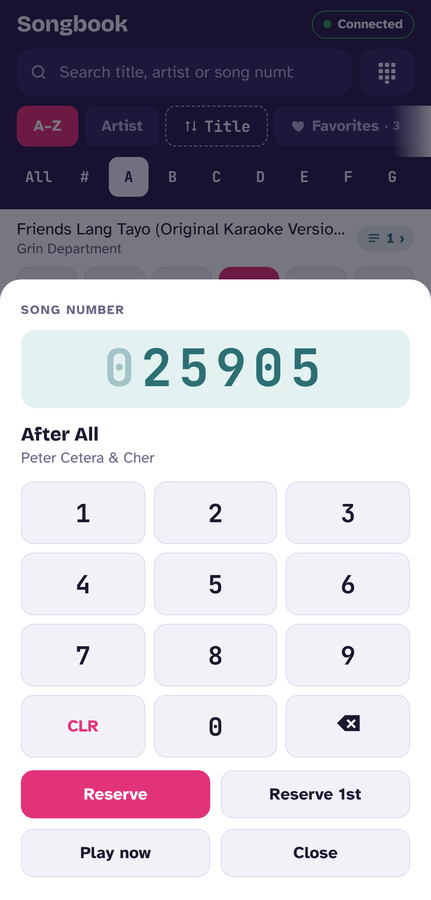
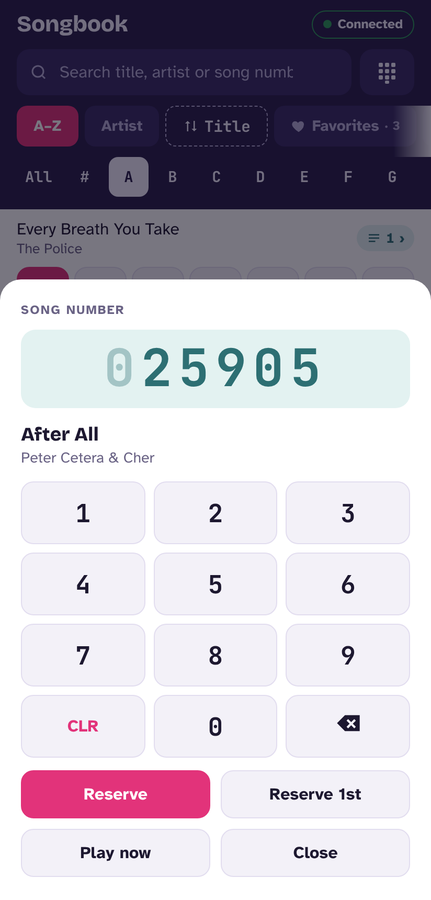
Add BGV button and reorder controls (v3.3)
- New BGV button to change SongHub's background video/photo:
  {"action":"bgv"} over Wi-Fi, F7 over the Bluetooth keypad
- Control row order is now Play/Pause, Next, BGV, Stop, Melody, Tempo, Keys
- README and screenshots updated

Claude-Session: https://claude.ai/code/session_018YhXNoDMN8dow8WWHKXSq2

Changed region(s): [[0.0302, 0.2489, 0.7842, 0.3111]]

diff --git a/web/template.html b/web/template.html
@@ -221,7 +221,7 @@ mark{background:var(--hl);color:inherit;border-radius:2px}
 .conn[data-s="connecting"] .dot,.conn[data-s="retry"] .dot{background:var(--warn)}
 @media (prefers-reduced-motion:no-preference){.conn[data-s="connecting"] .dot,.conn[data-s="retry"] .dot{animation:blink 1s infinite}@keyframes blink{50%{opacity:.25}}}
 .np{flex:none;display:flex;flex-direction:column;width:100%;box-sizing:border-box;border-bottom:1px solid var(--line);background:var(--surface);color:var(--fg)}
-.ctl{display:grid;grid-template-columns:repeat(6,minmax(0,1fr));gap:6px;padding-block:0 8px}
+.ctl{display:grid;grid-template-columns:repeat(7,minmax(0,1fr));gap:5px;padding-block:0 8px}
 .ctl button{min-width:0;display:flex;flex-direction:column;align-items:center;justify-content:center;gap:3px;padding:7px 2px;min-height:54px;border-radius:12px;border:1px solid var(--line);background:var(--bg);color:var(--fg);font:inherit;cursor:pointer}
 .ctl button span{font-size:calc(.7rem * var(--fs,1));font-weight:700;color:var(--muted);white-space:nowrap;overflow:hidden;text-overflow:ellipsis;max-width:100%}
 .ctl button .v{font-family:var(--f-num);font-size:calc(1rem * var(--fs,1));line-height:1.1;color:var(--num);white-space:nowrap;max-width:100%;overflow:hidden}
@@ -623,7 +623,7 @@ function kConnect(){
 function kDisconnect(){K.wanted=false;K.everOn=false;clearTimeout(K.timer);const w=K.ws;K.ws=null;try{w&&w.close()}catch(e){}K.queue=[];K.now=null;setK('off')}
 function sendOp(op,code){if(K.link==='bt'){if(op===2)return btKeys([...btClear(),...btDigits(code),'enter']);if(op===0)return btKeys(['playpause']);throw BT_ONLY}const b=new TextEncoder().encode(code);const a=new Uint8Array(b.length+1);a[0]=op;a.set(b,1);K.ws.send(a.buffer)}
 function sendInt(op,v){if(K.link==='bt'){if(op===4)return btKeys([v>0?'f4':'f3']);if(op===5)return btKeys([v>0?'f6':'f5']);throw BT_ONLY}K.ws.send(new Uint8Array([op,v&255]).buffer)}
-function sendAct(action,payload){if(K.link==='bt'){const m={next:'next',stop:'stop',melody:'f2'}[action];if(!m)throw BT_ONLY;return btKeys([m])}K.ws.send(JSON.stringify(payload==null?{action}:{action,payload:String(payload)}))}
+function sendAct(action,payload){if(K.link==='bt'){const m={next:'next',stop:'stop',melody:'f2',bgv:'f7'}[action];if(!m)throw BT_ONLY;return btKeys([m])}K.ws.send(JSON.stringify(payload==null?{action}:{action,payload:String(payload)}))}
 const K_LABEL={off:'Connect karaoke',connecting:'Connecting…',on:'Connected',retry:'Reconnecting…',error:'Not connected'};
 const K_LABEL_BT={off:'Connect karaoke',connecting:'Connecting…',on:'Connected (BT)',retry:'Connecting…',error:'Not connected'};
 function setK(s){K.state=s;const c=$('conn');c.dataset.s=s;$('conn-t').textContent=(K.link==='bt'?K_LABEL_BT:K_LABEL)[s];renderNP();if(sheetMode==='connect'){if(K.link==='bt')renderBt();else{renderConnectStatus();renderScan()}}}
@@ -640,7 +640,8 @@ const ICON={
   play:'<svg viewBox="0 0 24 24" aria-hidden="true"><path d="M8 5v14l11-7z"/></svg>',
   pause:'<svg viewBox="0 0 24 24" aria-hidden="true"><path d="M6 5h4v14H6zM14 5h4v14h-4z"/></svg>',
   stop:'<svg viewBox="0 0 24 24" aria-hidden="true"><path d="M6 6h12v12H6z"/></svg>',
-  next:'<svg viewBox="0 0 24 24" aria-hidden="true"><path d="M6 6l8.5 6L6 18zM16 6h2v12h-2z"/></svg>'};
+  next:'<svg viewBox="0 0 24 24" aria-hidden="true"><path d="M6 6l8.5 6L6 18zM16 6h2v12h-2z"/></svg>',
+  bgv:'<svg viewBox="0 0 24 24" aria-hidden="true"><path fill-rule="evenodd" d="M3 5h18v14H3zm2 2v10h14V7z"/><path d="M6.5 15.5l3.2-4 2.3 2.8 2.2-2.8 3.3 4z"/><circle cx="15.5" cy="9.3" r="1.3"/></svg>'};
 const isPlaying=()=>{const s=String(K.status).toLowerCase();return s!=='idle'&&s!=='paused'&&s!==''&&s!=='stopped'};
 const fmtAdj=v=>v>0?'+'+v:String(v);
 // Melody: SongHub steps Off → 20 → 40 → 60 → 80 → Max on each "melody" command, then back to Off.
@@ -652,12 +653,13 @@ K.panel='';K.melFix=false;K.melKnown=false;let melWait=null;
 // Row of controls under the song bar (Tempo · Keys · Melody · Start/Pause · Stop · Next)
 function ctlHTML(){const pl=isPlaying();const on=w=>K.panel===w?' aria-expanded="true"':' aria-expanded="false"';
   return `<div class="ctl gut" role="group" aria-label="Karaoke controls">
-   <button type="button" data-panel="tempo"${on('tempo')}><b class="v">${fmtAdj(K.adj.tempo)}</b><span>Tempo</span></button>
-   <button type="button" data-panel="key"${on('key')}><b class="v">${fmtAdj(K.adj.key)}</b><span>Keys</span></button>
-   <button type="button" data-panel="melody"${on('melody')}><b class="v">${MEL[K.mel]}</b><span>Melody</span></button>
    <button type="button" class="pp" data-tp="pp">${K.link==='bt'?ICON.play:pl?ICON.pause:ICON.play}<span>${K.link==='bt'?'Play/Pause':pl?'Pause':'Start'}</span></button>
+   <button type="button" data-tp="next">${ICON.next}<span>Next</span></button>
+   <button type="button" data-tp="bgv" aria-label="Change background">${ICON.bgv}<span>BGV</span></button>
    <button type="button" data-tp="stop">${ICON.stop}<span>Stop</span></button>
-   <button type="button" data-tp="next">${ICON.next}<span>Next</span></button></div>`}
+   <button type="button" data-panel="melody"${on('melody')}><b class="v">${MEL[K.mel]}</b><span>Melody</span></button>
+   <button type="button" data-panel="tempo"${on('tempo')}><b class="v">${fmtAdj(K.adj.tempo)}</b><span>Tempo</span></button>
+   <button type="button" data-panel="key"${on('key')}><b class="v">${fmtAdj(K.adj.key)}</b><span>Keys</span></button></div>`}
 function panelHTML(){
   if(K.panel==='tempo'||K.panel==='key'){const n=K.panel,L=n==='key'?'Keys':'Tempo';
     return `<div class="panel gut"><span class="pl">${L}</span>
@@ -683,7 +685,7 @@ function kTransport(what){
     if(what==='pp'){const was=isPlaying();sendOp(0,'');
       if(K.link!=='bt'&&(K.now||was)){K.status=was?'paused':'playing';renderNP();if(sheetMode==='queue')openQueue()}  // flip right away; the next state update confirms
       toast(K.link==='bt'?'Play/Pause':was?'Paused':'Start');}
-    else{sendAct(what,null);toast(what==='next'?'Next song':what==='stop'?'Stopped':'Replaying song')}
+    else{sendAct(what,null);toast(what==='next'?'Next song':what==='stop'?'Stopped':what==='bgv'?'Background changed':'Replaying song')}
   }catch(e){toast(e===BT_ONLY?'Not available over Bluetooth':'Could not send. Check the connection.')}
 }
 // Key = binary [4,±1], Tempo = binary [5,±1] — same as SongHub's official remote. Counts are taps since the song started.

diff --git a/native/src/com/songbook/app/BtKeypad.java b/native/src/com/songbook/app/BtKeypad.java
@@ -23,7 +23,7 @@ import java.util.concurrent.Executors;
  * Makes the phone act as a Bluetooth keyboard (HID device) that SongHub's player reacts to.
  * SongHub keys (from its PlayerActivity.dispatchKeyEvent):
  *   0-9 type the song number, Enter reserves it, Backspace deletes a digit,
- *   Media Play/Pause, Media Stop, Media Next, F2 melody, F3/F4 key -/+, F5/F6 tempo -/+.
+ *   Media Play/Pause, Media Stop, Media Next, F2 melody, F3/F4 key -/+, F5/F6 tempo -/+, F7 background (BGV).
  *   Back/Esc is never sent: SongHub uses it to exit the player.
  * JS: AndroidBt.available(), start(addr), devices(), connect(addr), disconnect(), stop(),
  *     discoverable(), send("1,2,enter"), phoneName().  Callback: window.__kbt.update(jsonString)
@@ -279,6 +279,7 @@ public class BtKeypad {
         if (k.equals("f4")) return new int[]{1, 0x3D};
         if (k.equals("f5")) return new int[]{1, 0x3E};
         if (k.equals("f6")) return new int[]{1, 0x3F};
+        if (k.equals("f7")) return new int[]{1, 0x40};   // SongHub: change background (BGV)
         if (k.equals("playpause")) return new int[]{2, 0xCD};
         if (k.equals("stop")) return new int[]{2, 0xB7};
         if (k.equals("next")) return new int[]{2, 0xB5};

diff --git a/README.md b/README.md
@@ -15,7 +15,7 @@ A karaoke songbook for Android phones and tablets that works as a remote for the
 - **Song list:** browse A–Z with a letter strip, by artist, Favorites or History. Search by title, artist or song number, and sort by title or by number.
 - **Favorites:** tap the heart on any song. **History** lists songs you reserved or played and songs SongHub played, so you can reserve them again.
 - **Number keypad:** type a song number and see the matching song before you send it.
-- **Remote control:** Reserve, Reserve 1st, Play now, Play/Pause, Stop, Next, Replay, Keys, Tempo and Melody (Off, 20, 40, 60, 80, Max), plus a live queue and now-playing display.
+- **Remote control:** Reserve, Reserve 1st and Play now, plus a control row of Play/Pause, Next, BGV (change background), Stop, Melody (Off, 20, 40, 60, 80, Max), Tempo and Keys. Also Replay, a live queue and a now-playing display.
 - **Layouts:** portrait, landscape split view (controls on the left, songs on the right) and tablet table view. Large text sizes are supported, and it follows dark mode.
 - **Offline:** the song list and fonts are inside the app.
 
@@ -43,7 +43,7 @@ The phone registers as a Bluetooth keyboard, which SongHub's player responds to.
 3. Back in the Songbook, tap the SongHub device in **Paired devices**.
 4. Keep SongHub's **player screen** open.
 
-Over Bluetooth you can Reserve, use the live keypad, Play/Pause, Stop, Next, Keys, Tempo and Melody. Bluetooth only sends keys and nothing comes back, so the queue, now playing, Reserve 1st, Play now and Replay need Wi-Fi. A "Songbook keypad" notification keeps the connection alive in the background.
+Over Bluetooth you can Reserve, use the live keypad, Play/Pause, Next, BGV, Stop, Melody, Tempo and Keys. Bluetooth only sends keys and nothing comes back, so the queue, now playing, Reserve 1st, Play now and Replay need Wi-Fi. A "Songbook keypad" notification keeps the connection alive in the background.
 
 If pairing fails with "incorrect PIN" after swapping which phone is the keypad, forget the pairing on **both** phones and pair again.
 
@@ -57,7 +57,7 @@ If pairing fails with "incorrect PIN" after swapping which phone is the keypad, 
 | Play/Pause | binary `[0]` |
 | Key ± / Tempo ± | binary `[4, ±1]` / `[5, ±1]` |
 | Reserve 1st, Remove | `{"action":"priority"\|"remove","payload":"<number>"}` |
-| Next, Stop, Replay, Melody | `{"action":"next"\|"stop"\|"replay"\|"melody"}` |
+| Next, Stop, Replay, Melody, BGV | `{"action":"next"\|"stop"\|"replay"\|"melody"\|"bgv"}` |
 
 SongHub sends `{"type":"state_update", "queue":[…], "status", "now_playing", "transpose", "tempo", "melody"}`, which drives the queue and the real key, tempo and melody values. **Scan** listens for SongHub's UDP beacon (`SONGHUB_SERVER:<port>` on 48080), checks the local network for port 48080, and confirms each device with SongHub's `welcome` message.
 
@@ -70,7 +70,7 @@ SongHub sends `{"type":"state_update", "queue":[…], "status", "now_playing", "
 | Delete one digit | retypes the rest padded to 6 digits (e.g. 1234 → `000123`) |
 | Clear | Backspace |
 | Play/Pause, Stop, Next | Media keys |
-| Melody / Key − + / Tempo − + | F2 / F3 F4 / F5 F6 |
+| Melody / Key − + / Tempo − + / BGV | F2 / F3 F4 / F5 F6 / F7 |
 
 Back/Esc is never sent, because SongHub uses it to exit the player.
 
